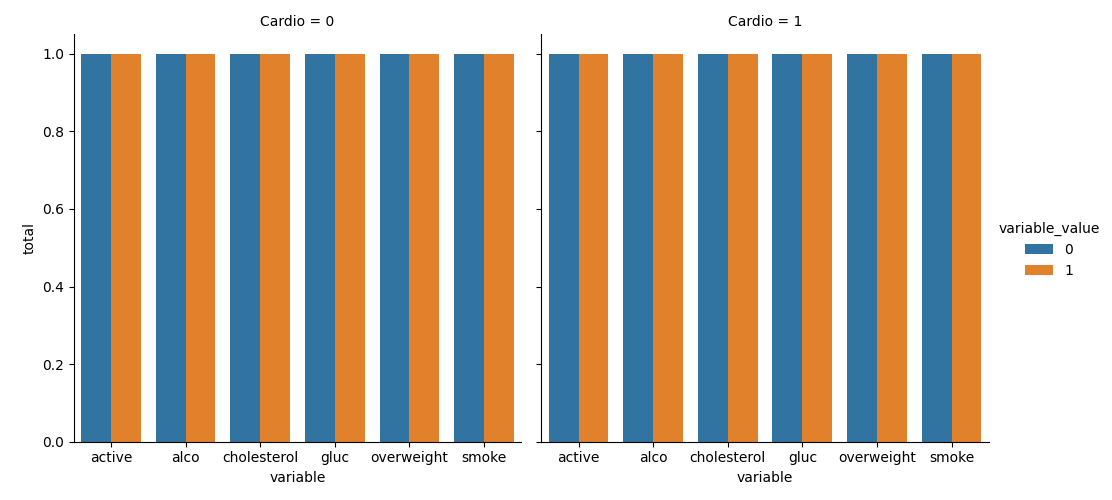
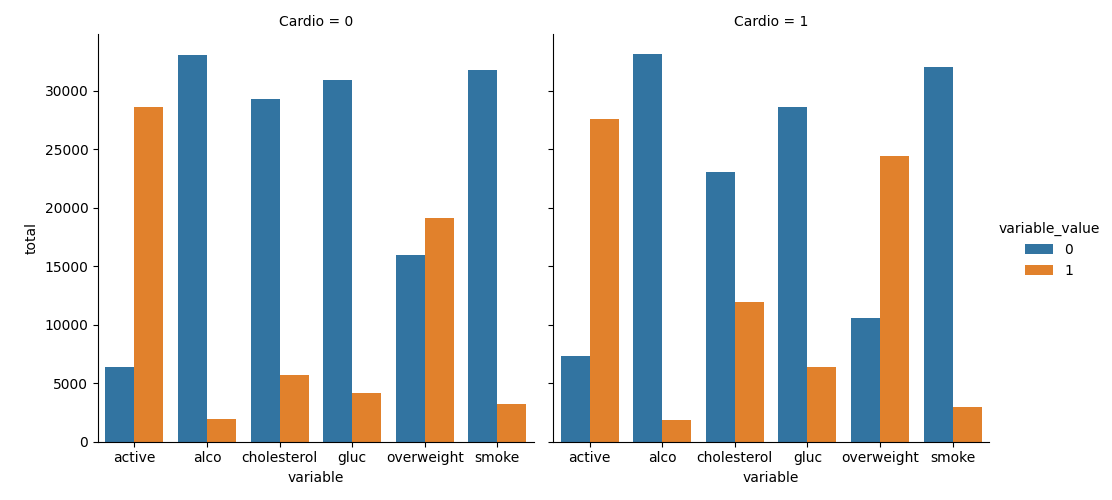
final

diff --git a/medical_data_visualizer.py b/medical_data_visualizer.py
@@ -26,8 +26,8 @@ def draw_cat_plot():
 
     # Draw the catplot with 'sns.catplot()'
     g = sns.catplot(
-        x='variable', hue='variable_value', col='cardio',
-        data=df_cat_grouped, kind='count'
+        x='variable', hue='variable_value',y='total', col='cardio',
+        data=df_cat_grouped, kind='bar'
     )
 
     # Set plot titles and axis labels
